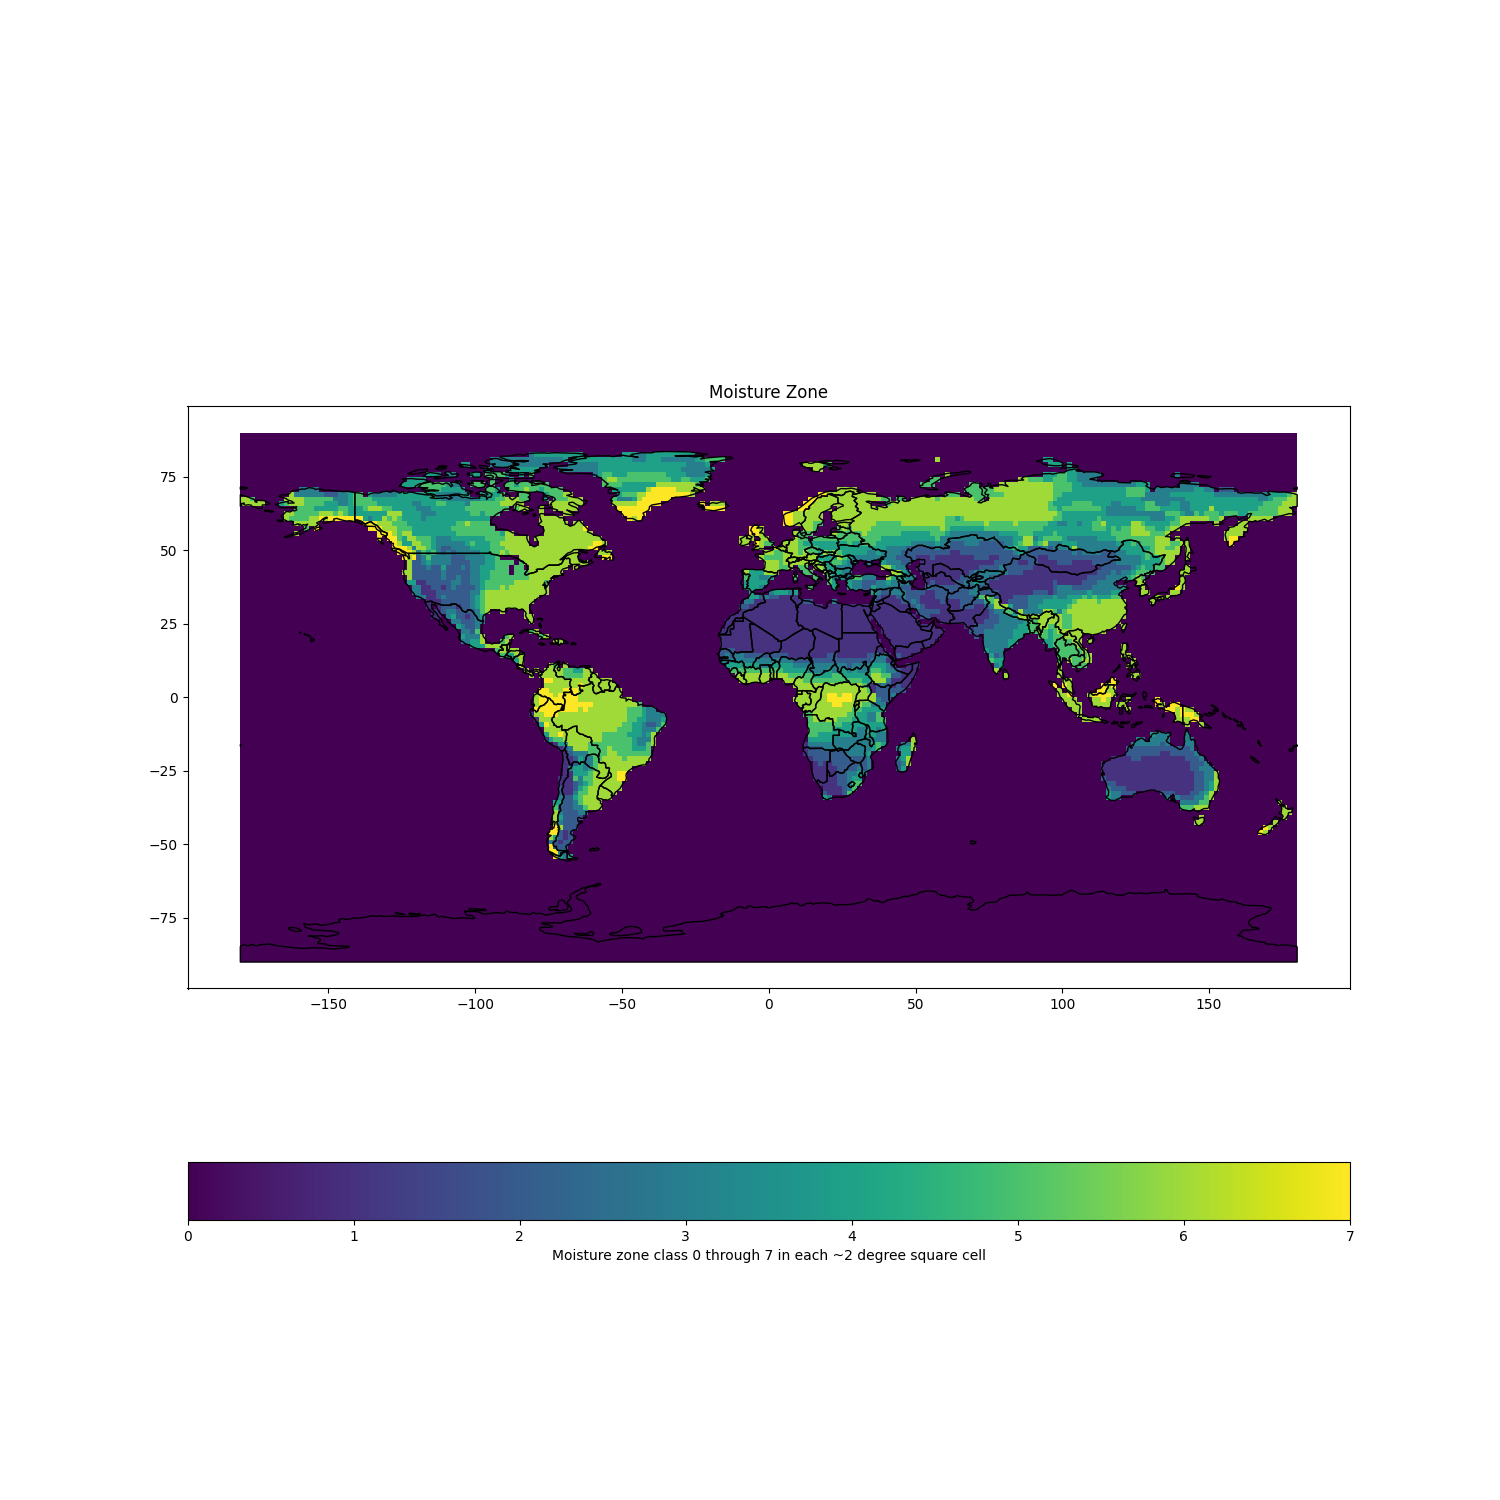
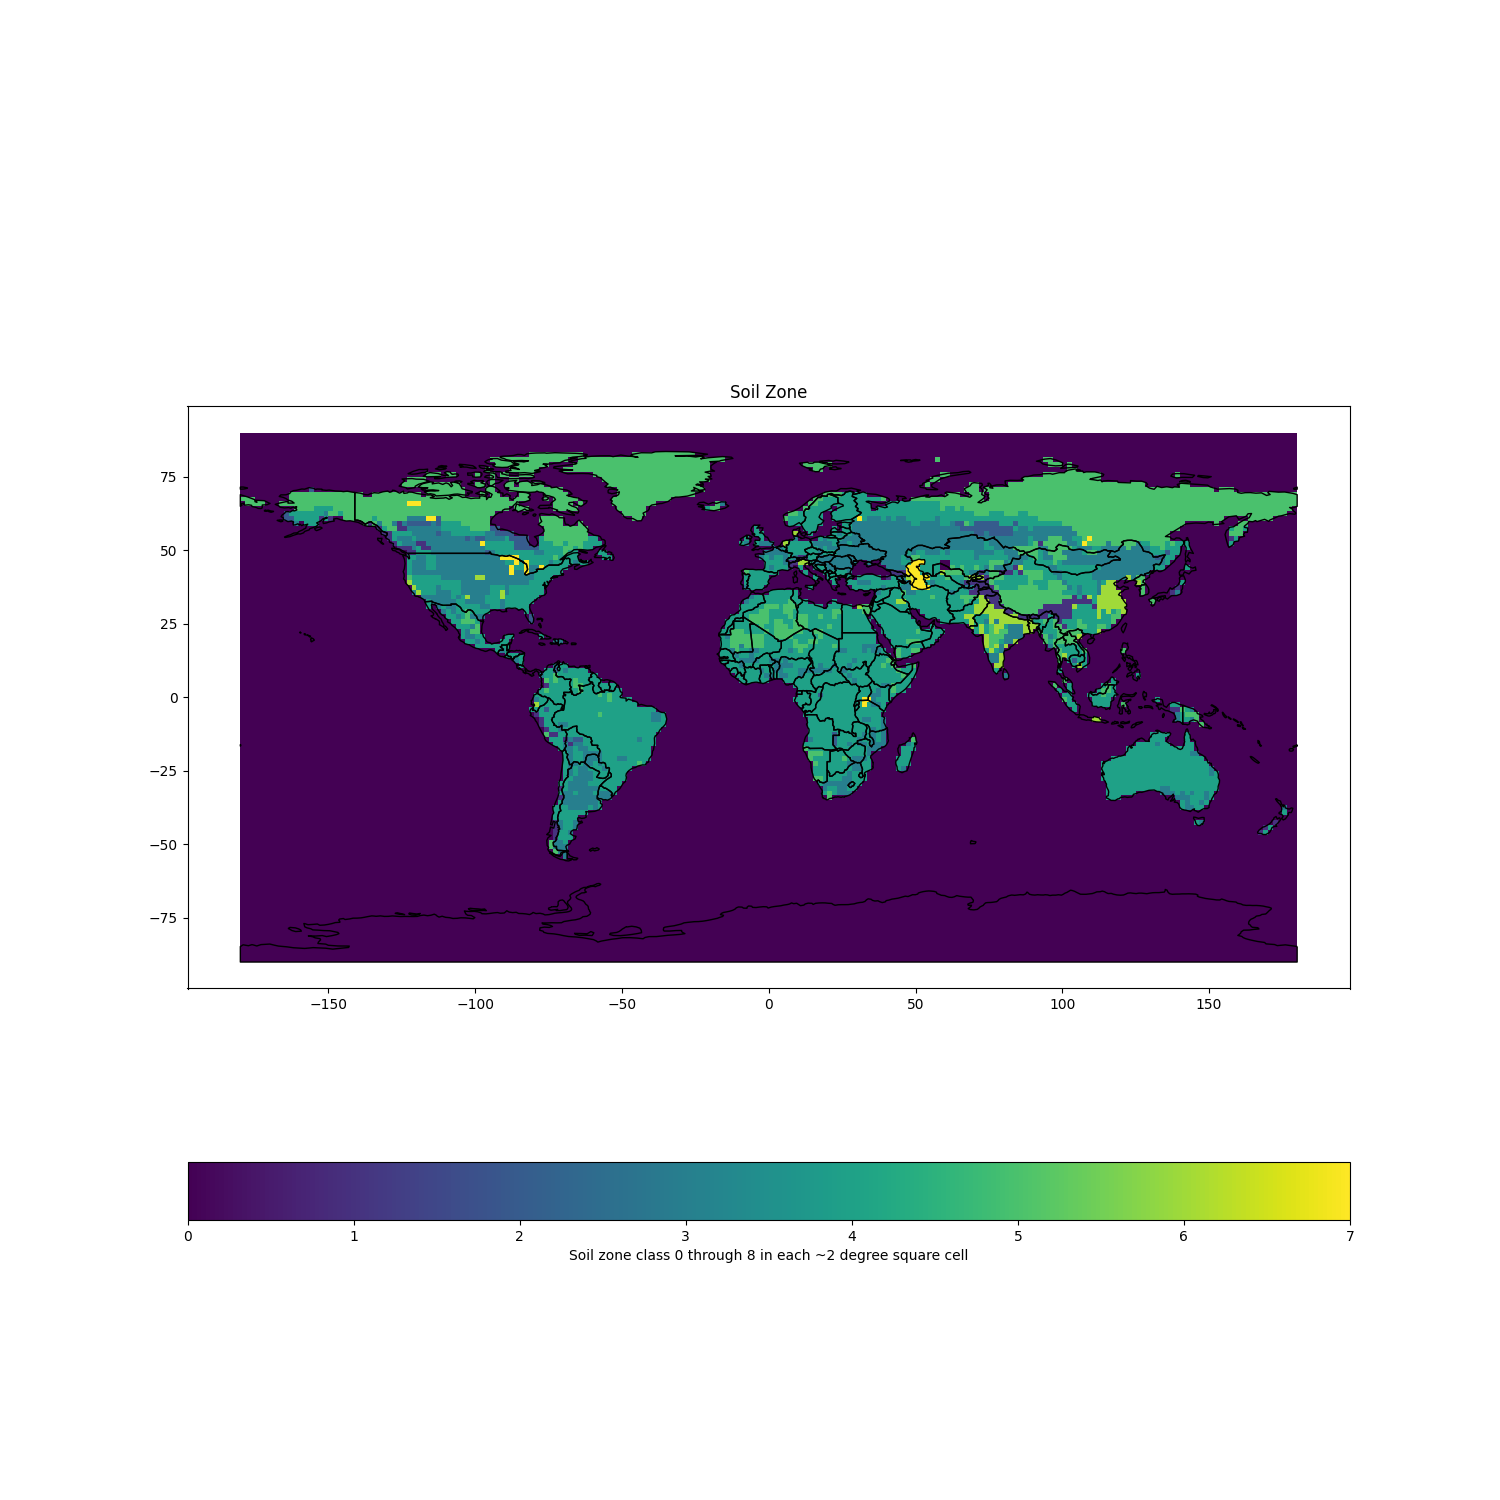
added soil import to aez

diff --git a/src/import_aez.py b/src/import_aez.py
@@ -29,8 +29,10 @@ params.importIfNotAlready()
 # aq=aquastat.dropna(how='all').replace('',np.nan)
 AEZs = [
 'mst_class_CRUTS32_Hist_8110_100_avg.tif',
-'thz_class_CRUTS32_Hist_8110_100_avg.tif'
+'thz_class_CRUTS32_Hist_8110_100_avg.tif',
+#source below is 30 arcsecond; we downsampled to soil_5arcmin.tif before import
 # 'soil_regime_CRUTS32_Hist_8110.tif'
+'soil_5arcmin.tif'
 ]
 
 mn_lat=-90
@@ -77,6 +79,7 @@ aArr=adata.read(1)
 zonetypes={}
 zonetypes['thz']=[0,1,2,3,4,5,6,7,8,9,10]
 zonetypes['mst']=[0,1,2,3,4,5,6,7]
+zonetypes['soil']=[0,1,2,3,4,5,6,7,8]
 print('reading agroecological zone data')
 df_tmp = pd.DataFrame(data=data)
 
@@ -116,3 +119,7 @@ Plotter.plotMap(grid,'thz',title,label,'thzZone',True)
 title="Moisture Zone"
 label="Moisture zone class 0 through 7 in each ~2 degree square cell"
 Plotter.plotMap(grid,'mst',title,label,'mstZone',True)
+
+title="Soil Zone"
+label="Soil zone class 0 through 8 in each ~2 degree square cell"
+Plotter.plotMap(grid,'soil',title,label,'mstZone',True)

diff --git a/src/import_irrigation_data.py b/src/import_irrigation_data.py
@@ -90,7 +90,6 @@ lats2d, lons2d = np.meshgrid(lats, lons)
 
 data = {"lats": pd.Series(lats2d.ravel()),
 		"lons": pd.Series(lons2d.ravel()),
-		# crop area 1000s of km (hectares).
 		"area": pd.Series(areaBinnedReoriented.ravel()),
 		"surfacewaterArea": pd.Series(swBinnedReoriented.ravel()),
 		"groundwaterArea": pd.Series(gwBinnedReoriented.ravel())

diff --git a/src/utilities.py b/src/utilities.py
@@ -108,7 +108,8 @@ def saveasgeopandas(name,allMonths,gridAllMonths,lats,lons):
 	fn = params.geopandasDataDir + name + '.csv'
 
 	grid=grid.sort_values(by=['lats', 'lons'])
-	grid.to_csv(fn)
+	return grid
+	# grid.to_csv(fn)
 
 
 #save a .pkl file with the gridded data saved in columns labelled by month 
